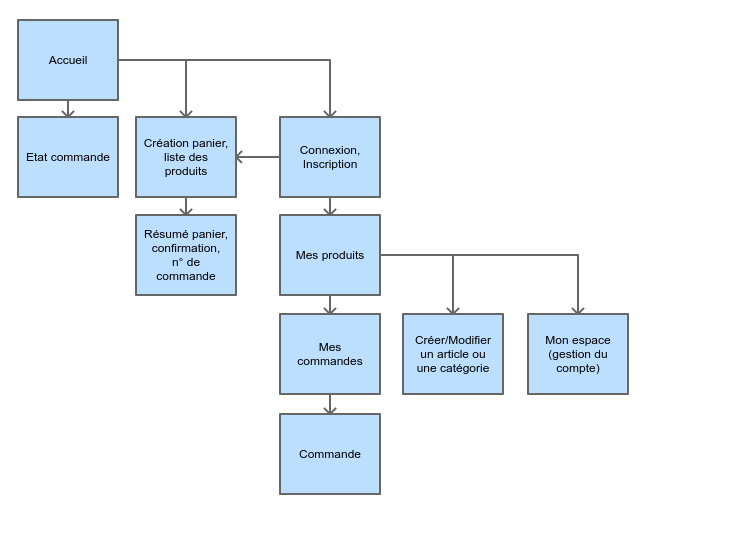
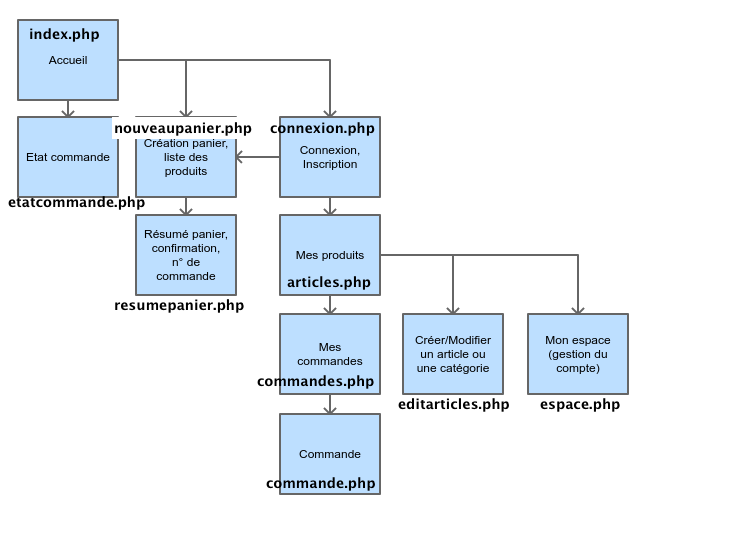
Harmonisation des noms de fichier avec la gestion de projet (Trello + architecture)

diff --git a/Sources/Vue/banderole.css b/Sources/Vue/banderole.css
@@ -19,3 +19,12 @@ nav {
 	background-color: gray;
 	height: 100px;
 }
+
+footer{
+	/*position: absolute;*/
+	bottom: 0px;
+	width: 60%;
+	margin: auto;
+	margin-top: 20px;
+	border-top: 2px solid gray;
+}

diff --git a/Sources/Vue/banderole_client.php b/Sources/Vue/banderole_client.php
@@ -21,7 +21,7 @@
         <h1>Panier piano</h1>
       </div>
       <nav class="navbar navbar-expand-md navbar-dark bg-dark">
-        <a class="navbar-brand" href="#"><span class="oi oi-home align-middle" title="home" aria-hidden="true"></span></a>
+        <a class="navbar-brand" href="index.php"><span class="oi oi-home align-middle" title="home" aria-hidden="true"></span></a>
         <button class="navbar-toggler" type="button" data-toggle="collapse" data-target="#navbarSupportedContent" aria-controls="navbarSupportedContent" aria-expanded="false" aria-label="Toggle navigation">
           <span class="navbar-toggler-icon"></span>
         </button>

diff --git a/Sources/Vue/banderole_nonConnecte.php b/Sources/Vue/banderole_nonConnecte.php
@@ -22,7 +22,7 @@
         <h1>Panier piano</h1>
       </div>
       <nav class="navbar navbar-expand-md navbar-dark bg-dark">
-        <a class="navbar-brand" href="#"><span class="oi oi-home align-middle" title="home" aria-hidden="true"></span></a>
+        <a class="navbar-brand" href="index.php"><span class="oi oi-home align-middle" title="home" aria-hidden="true"></span></a>
         <button class="navbar-toggler" type="button" data-toggle="collapse" data-target="#navbarSupportedContent" aria-controls="navbarSupportedContent" aria-expanded="false" aria-label="Toggle navigation">
           <span class="navbar-toggler-icon"></span>
         </button>

diff --git a/Sources/Vue/footer.php b/Sources/Vue/footer.php
@@ -1,3 +1,6 @@
-
+	<footer>
+		<p>Ce site a été créé par Caroline, Esteban, Hermine et Pauline dans le cadre d'un projet de web en L3 sciences cognitives à Nancy</p>
+		<p>2017-2018</p>
+	</footer>
   </body>
 </html>
